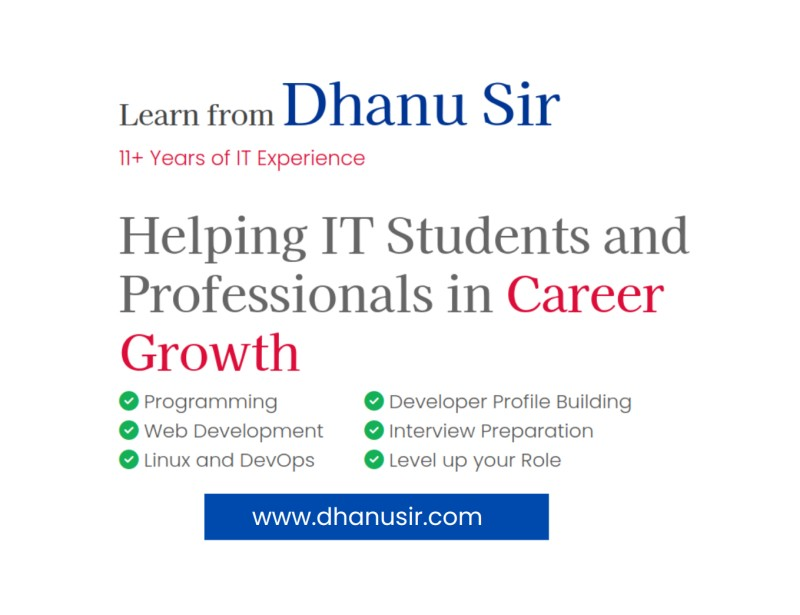
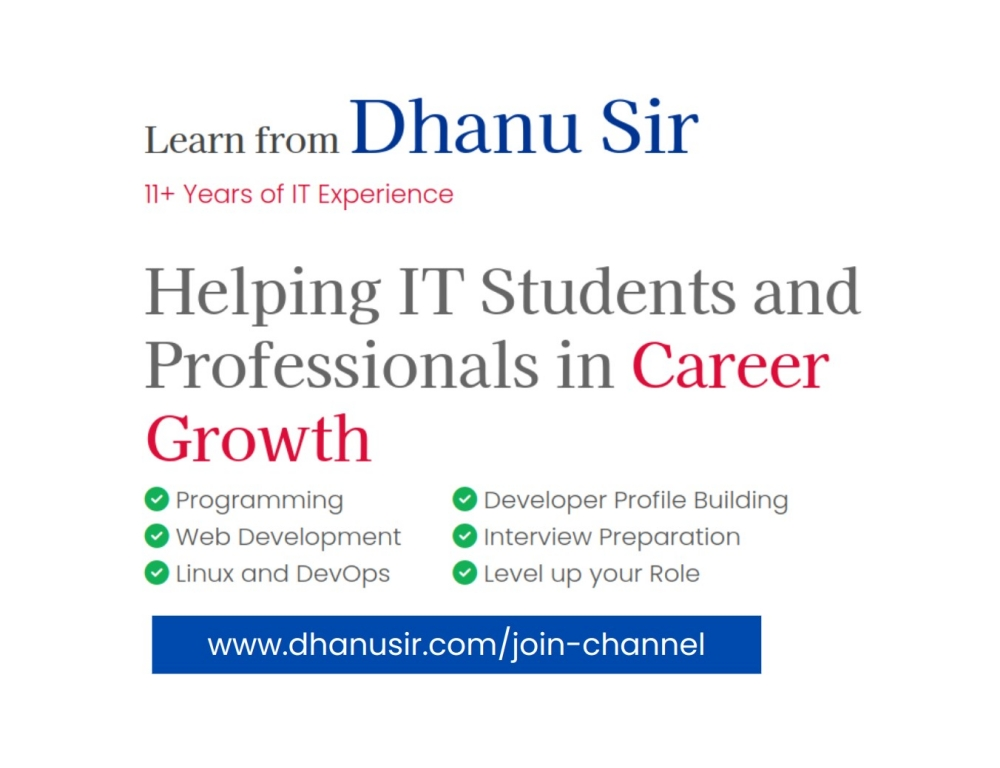
Added subscribe channel section, channel page and thumbnail

Changed region(s): [[0.125, 0.3398, 0.875, 0.8959], [0.125, 0.1236, 0.7188, 0.278]]

diff --git a/_sass/_home.scss b/_sass/_home.scss
@@ -160,54 +160,44 @@
 }
 
 .home-body {
-  .updates-section {
+  .join-channel-section {
     padding: 4rem 0 7rem;
 
     .container {
-      max-width: 1000px;
+      max-width: 900px;
 
       .wrapper {
+        height: 18rem;
         box-shadow: -2px -5px 33px rgba(221, 225, 233, 0.52), 14px 18px 61px -21px #B6BFCC;
-      }
-    }
-    .title {
-      color: $color-secondary;
-      text-align: center;
-      padding: 2rem 0 0 0;
-    }
+        border-radius: 15px;
+        text-align: left;
 
-    .news-content {
-      list-style: none;
-      padding-left: 1rem;
+        .img-wrapper {
+          height: 100%;
+          padding: 0;
 
-      .news-item {
-        color: $color-primary;
-        font-size: 18px;
-
-        i {
-          float: left;
-          margin-top: 6px;
-          color: $color-secondary;
+          .channel-img {
+            height: 100%;
+            border-radius: 15px 0 0 15px;
+          }
         }
-        span {
-          display: block;
-          margin-left: 1.6rem;
+
+        .caption-wrapper {
+          display: flex;
+          flex-direction: column;
+          gap: 1rem;
+          justify-content: center;
+          height: 100%;
+          width: 100%;
+          padding: 2rem 2rem 2rem 1rem;
+          color: $color-primary;
+          padding: 3rem;
+
+          h1 {
+            color: $color-secondary;
+            text-align: left;
+          }
         }
-      }
-    }
-    .update-card {
-      margin-bottom: 1rem;
-
-      p {
-        font-size: 18px;
-        padding: 10px 16px;
-        line-height: 24px;
-        color: $color-secondary;
-        margin-bottom: 0;
-      }
-
-      &:last-child {
-        margin-bottom: 0;
       }
     }
   }
@@ -464,15 +454,13 @@
         }
       }
     }
-
-    .updates-section {
-      padding: 3rem 0 6rem;
-
-      .action-btn {
-        margin-top: 2rem;
-      }
-    }
-
+    // .join-channel-section {
+    //   .container {
+    //     .wrapper {
+    //       flex-direction: column;
+    //     }
+    //   }
+    // }
     .about-mentor-section {
       .about-mentor-wrapper {
         background: #EDF3FF;

diff --git a/_includes/home/join-channel.html b/_includes/home/join-channel.html
@@ -1,0 +1,22 @@
+<div class="join-channel-section section-padding">
+  <div class="container">
+    <div class="row wrapper">
+      <div class="col-md-4 img-wrapper">
+        <img src="{{ site.asset_base_url }}/img/telegram-channel.png" class="channel-img" alt="Dhanu Sir Channel">
+      </div>
+      <div class="col-md-8">
+        <div class="caption-wrapper">
+          <h1 class="mb-0">Subscribe Channel</h1>
+          <p class="mb-0">
+            Get updates about Career Growth Tips and Tricks,
+            Learning materials like Cheatsheets, Courses, Tutorials,
+            and get notified for PAID Courses and Workshops.
+          </p>
+          <div class="action-btn">
+            <a href="{{ site.channel_link }}" class="btn btn-sm px-5 py-2 btn-outline-danger">Subscribe</a>
+          </div>
+        </div>
+      </div>
+    </div>
+  </div>
+</div>

diff --git a/index.html b/index.html
@@ -5,7 +5,7 @@ permalink: /
 page_name: home
 ---
 
-{% include home/updates.html %}
+{% include home/join-channel.html %}
 {% include home/tutorials.html %}
 <!-- {% include home/stay-connected.html %} -->
 {% include home/courses.html %}

diff --git a/pages/channel.html b/pages/channel.html
@@ -1,0 +1,6 @@
+---
+layout: default
+title: Join Channel
+permalink: /join-channel/
+redirect_to: https://t.me/+M0H_QnsZrSs5ZDRl
+---
